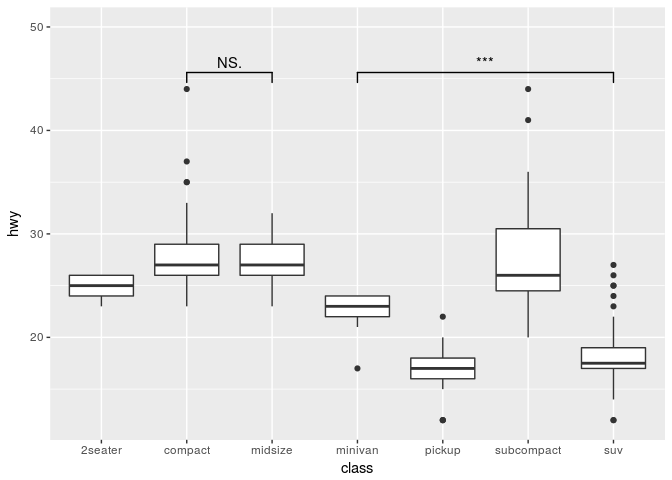
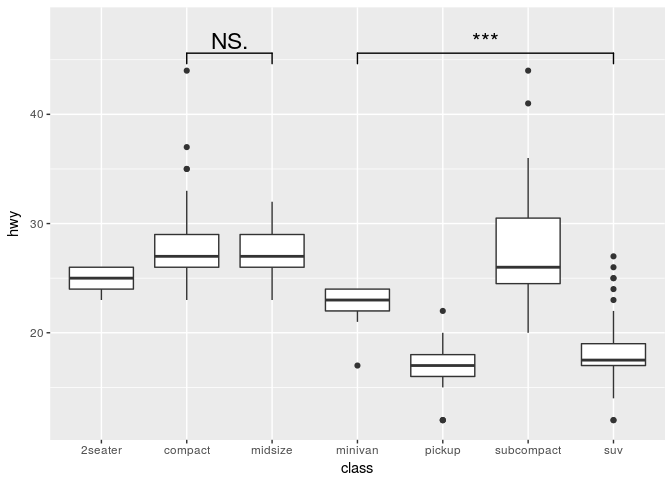
Describe how to use manual=TRUE mode with data.frames

diff --git a/README.md b/README.md
@@ -9,7 +9,7 @@ Easily add significance bars to your ggplots
 Description
 -----------
 
-This package provides an easy way to indicate if two groups are significantly different. Commonly this is shown with a by a bar on top connecting the groups of interest which itself is annoted with the level of significance (NS, *, **, ***). The package provides a single layer (geom\_signif) that takes the groups for comparison and the test (t.test, wilcox etc.) and adds the annotation to the plot.
+This package provides an easy way to indicate if two groups are significantly different. Commonly this is shown with a by a bar on top connecting the groups of interest which itself is annoted with the level of significance (NS, \*, \*\*, \*\*\*). The package provides a single layer (geom\_signif) that takes the groups for comparison and the test (t.test, wilcox etc.) and adds the annotation to the plot.
 
 Example
 -------
@@ -31,13 +31,15 @@ library(ggsignif)
 ggplot(mpg, aes(class, hwy)) +
    geom_boxplot() +
    geom_signif(comparisons = list(c("compact", "midsize"), c("minivan", "suv")),
-               map_signif_level = TRUE, textsize=5) +
-  ylim(NA, 50)
+               map_signif_level = TRUE, textsize=6) +
+  ylim(NA, 48)
 ```
 
 ![](tools/README-fig/simpe_comparison-1.png)
 
-Advanced Example
+Setting the precise location
+
+This is important if you use `position="dogde"`, because in that case I cannot calculate the correct position of the bars automatically.
 
 ``` r
 # Calculate annotation
@@ -53,5 +55,35 @@ ggplot(iris, aes(x=Species, y=Sepal.Width, fill=Petal.Width > 1)) +
 ```
 
 ![](tools/README-fig/dodge_comparison-1.png)
+
+Advanced Example
+
+Sometimes one needs to have a very fine tuned ability to set the location of the the significance bars in combination with `facet_wrap` or `facet_grid`. In those cases it you can set the flag `manual=TRUE` and provide the annoations as a data.frame:
+
+``` r
+annotation_df <- data.frame(color=c("E", "H"), 
+                            start=c("Good", "Fair"), 
+                            end=c("Very Good", "Good"),
+                            y=c(3.6, 4.7),
+                            label=c("Comp. 1", "Comp. 2"))
+
+annotation_df
+#>   color start       end   y   label
+#> 1     E  Good Very Good 3.6 Comp. 1
+#> 2     H  Fair      Good 4.7 Comp. 2
+
+ggplot(diamonds, aes(x=cut, y=carat)) +
+  geom_boxplot() +
+  geom_signif(data=annotation_df,
+              aes(xmin=start, xmax=end, annotations=label, y_position=y),
+              textsize = 3, vjust = -0.2,
+              manual=TRUE) +
+  facet_wrap(~ color) +
+  ylim(NA, 5.3)
+```
+
+![](tools/README-fig/faceted_comparison-1.png)
+
+You can ignore the warning about the missing aesthetics.
 
 For further details go the [CRAN page](https://CRAN.R-project.org/package=ggsignif) and check the examples in the [vignette](https://CRAN.R-project.org/package=ggsignif/vignettes/intro.html).
